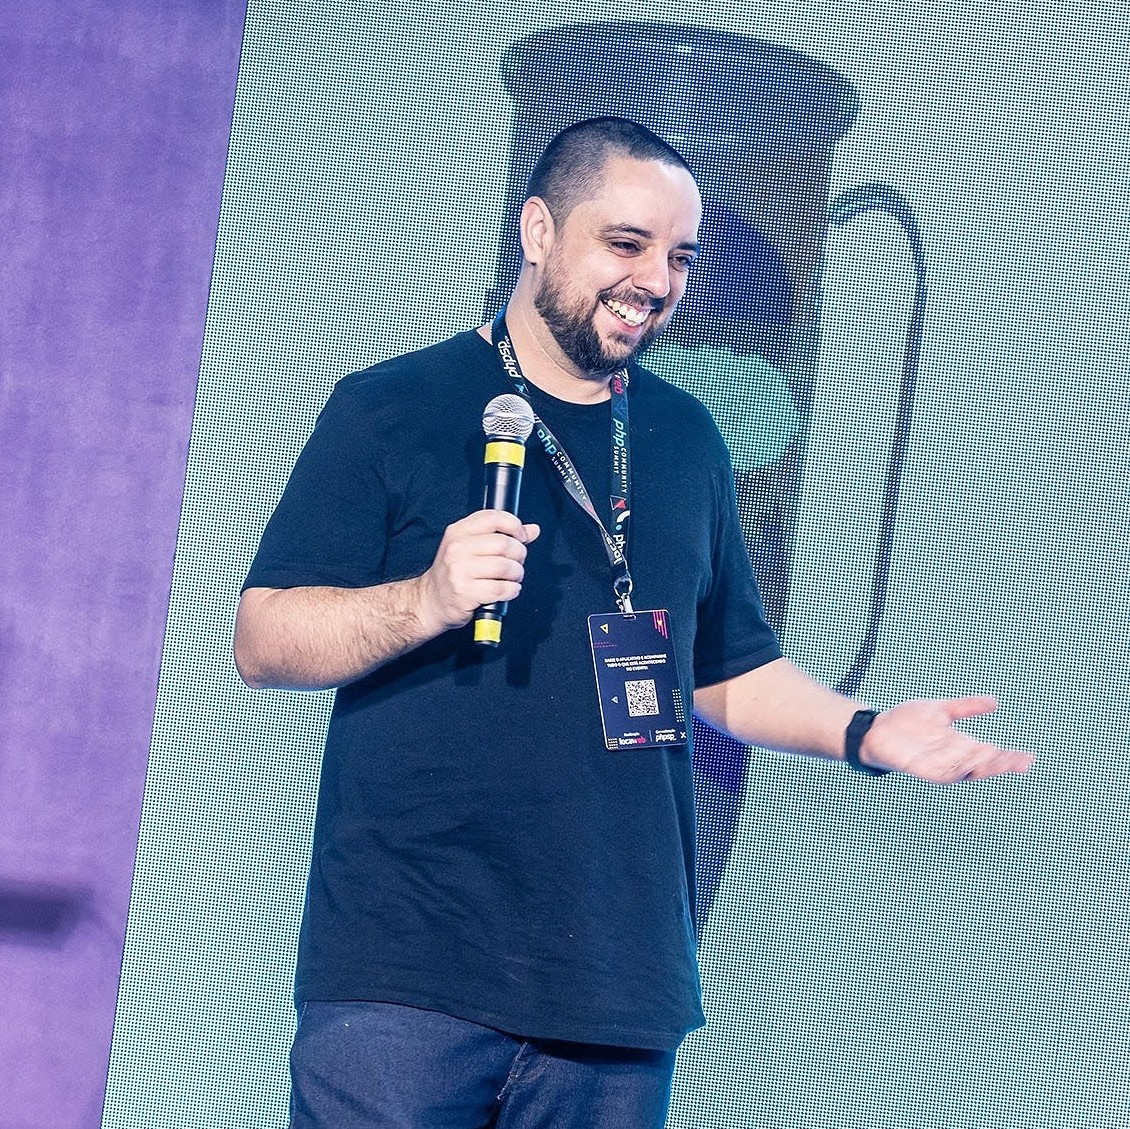
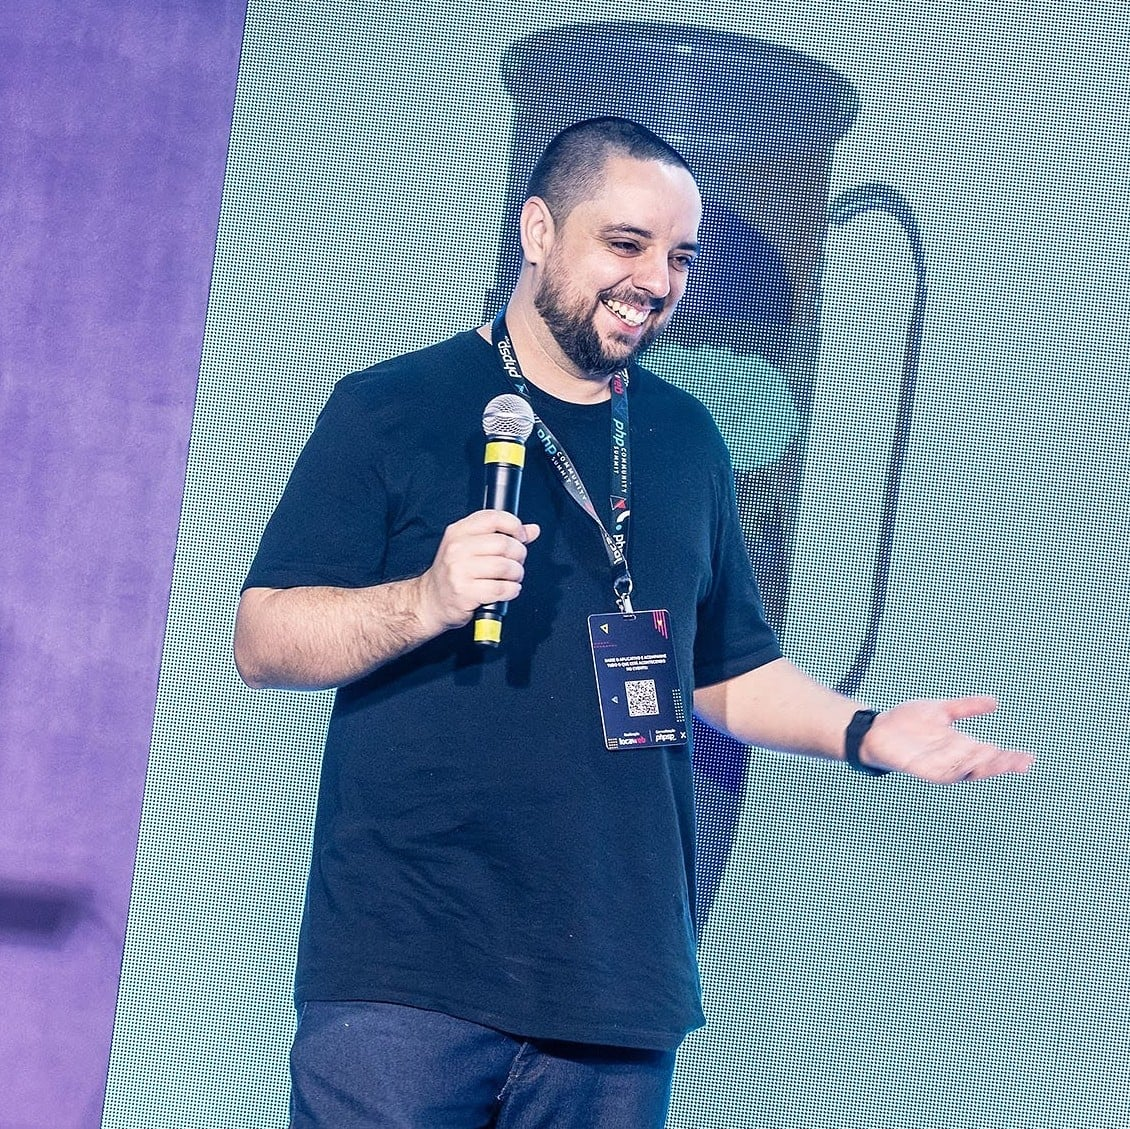
release 0.4.0
feat: add image optimization script and update makefile
feat: add optimized images for various posts and assets

diff --git a/_posts/2024-12-23-do-caos-a-clareza-explorando-a-modelagem-de-software.md b/_posts/2024-12-23-do-caos-a-clareza-explorando-a-modelagem-de-software.md
@@ -7,7 +7,7 @@ categories:
   - arquitetura
 tags:
   - arquitetura
-image: /assets/images/posts/do-caos-a-clareza-explorando-a-modelagem-de-software/caos.jpeg
+image: /assets/images/posts/do-caos-a-clareza-explorando-a-modelagem-de-software/caos.jpg
 description: "Softwares confusos, difíceis de entender e mal documentados geram estresse e frustração, especialmente em equipes que enfrentam dificuldades na integração de novos membros. Este artigo explora como a modelagem de software pode transformar esse cenário, trazendo clareza, organização e eficiência aos projetos."
 ---
 
@@ -56,7 +56,7 @@ referências, têm seus casos de uso e propósitos. No entanto, a ideia aqui é 
 simples que nos ajude a nos organizar e melhorar nosso fluxo de desenvolvimento, conectando pontos e caixas em diagramas
 de referência de nossos fluxos.
 
-![Exemplos de diagramas BPMN](/assets/images/posts/do-caos-a-clareza-explorando-a-modelagem-de-software/exemplos-de-diagramas-bpmn.png)
+![Exemplos de diagramas BPMN](/assets/images/posts/do-caos-a-clareza-explorando-a-modelagem-de-software/exemplos-de-diagramas-bpmn.jpg)
 
 ## Mas, por que desenhar?
 
@@ -75,7 +75,7 @@ precisamos falar com três ou quatro pessoas. A informação está toda distribu
 Todo mundo sabe que fulano é quem entende disso ou beltrano é quem sabe daquilo. Esses problemas sempre me soam como um
 **_Software Orientado a Fofoca_**.
 
-![Do Caos à Clareza : Slide 14](/assets/images/posts/do-caos-a-clareza-explorando-a-modelagem-de-software/software-orientado-a-fofoca.png)
+![Do Caos à Clareza : Slide 14](/assets/images/posts/do-caos-a-clareza-explorando-a-modelagem-de-software/software-orientado-a-fofoca.jpg)
 
 Esse tipo de sistema é um clássico, infelizmente. Geralmente, ele pode ser identificado por alguns pontos. Temos aquele
 sênior de 10 anos de empresa, que é considerado sênior não necessariamente por suas habilidades, mas porque está há 10
@@ -110,7 +110,7 @@ O processo de modelagem tem três etapas primordiais: início, processamento e f
 aqui, é importante termos uma linguagem comum para facilitar nosso entendimento. Nestas três etapas, podemos representar
 o início como uma bolinha branca, o quadrado para uma ação e o círculo preto para finalizar.
 
-![Do Caos à Clareza : Slide 18](/assets/images/posts/do-caos-a-clareza-explorando-a-modelagem-de-software/diagrama-1.png)
+![Do Caos à Clareza : Slide 18](/assets/images/posts/do-caos-a-clareza-explorando-a-modelagem-de-software/diagrama-1.jpg)
 
 Seja qual for, um worker que irá ler uma mensagem e processá-la, ou um cron job que realizará uma rotina e disparará
 alguns eventos, todo e qualquer fluxo sempre terá um início, um processamento e um fim. Isso pode começar com uma
@@ -128,7 +128,7 @@ Parece simples, certo? Mas, sem um desenho claro, essa tarefa pode se tornar um 
 
 Primeiro, vamos visualizar o fluxo básico da notificação de usuário.
 
-![Do Caos à Clareza : Slide 19](/assets/images/posts/do-caos-a-clareza-explorando-a-modelagem-de-software/diagrama-2.png)
+![Do Caos à Clareza : Slide 19](/assets/images/posts/do-caos-a-clareza-explorando-a-modelagem-de-software/diagrama-2.jpg)
 
 Primeiro, lemos as mensagens de uma fila chamada "user_notify". Depois, verificamos se há mensagens nessa fila. Se não
 houver mensagens, o fluxo termina. Caso haja mensagens, iteramos sobre cada uma delas e enviamos um e-mail para o
@@ -145,7 +145,7 @@ problema pode ser complicado. No entanto, com o diagrama em mãos, podemos rapid
 localizar onde o erro está ocorrendo. Por exemplo, se a exceção está sendo lançada porque o corpo da mensagem está
 vazio, podemos ver que faltou uma etapa de validação antes do envio do e-mail.
 
-![Do Caos à Clareza : Slide 20](/assets/images/posts/do-caos-a-clareza-explorando-a-modelagem-de-software/diagrama-3.png)
+![Do Caos à Clareza : Slide 20](/assets/images/posts/do-caos-a-clareza-explorando-a-modelagem-de-software/diagrama-3.jpg)
 
 Esses problemas podem ser identificados e resolvidos durante as sessões de entendimento e desenho. Muitas vezes, após
 horas de discussão, alguém olha para o fluxo e percebe um gap, algo que pode evitar um bug em produção.
@@ -161,7 +161,7 @@ sistema funciona e contribuir efetivamente.
 Mesmo que o fluxo ganhe novas formas de envio, como Telegram, ou novas tratativas de erros, podemos voltar ao desenho e
 discutir a melhor forma de implementar essas mudanças.
 
-![Do Caos à Clareza : Slide 22](/assets/images/posts/do-caos-a-clareza-explorando-a-modelagem-de-software/diagrama-4.png)
+![Do Caos à Clareza : Slide 22](/assets/images/posts/do-caos-a-clareza-explorando-a-modelagem-de-software/diagrama-4.jpg)
 
 ### Nem Só de Software Vive o Desenho
 
@@ -169,7 +169,7 @@ Quando comecei a escrever a palestra que apresentei, tinha tantas coisas que que
 roteiro coeso. Foi aí que usei o [miro.com](http://miro.com/) para criar um mapa mental dos assuntos. Fui organizando as
 ideias até encontrar uma ordem que fizesse sentido e que transmitisse o que eu queria dizer.
 
-![Mapa mental feito via miro.com](/assets/images/posts/do-caos-a-clareza-explorando-a-modelagem-de-software/miro.png)
+![Mapa mental feito via miro.com](/assets/images/posts/do-caos-a-clareza-explorando-a-modelagem-de-software/miro.jpg)
 
 Mas essa técnica vai além do software. Minha esposa, que é psicóloga, usa diagramas de emoções com seus pacientes.
 Enquanto conversava com eles, ela desenhava as relações entre as pessoas e os sentimentos que surgiam. Esses diagramas

diff --git a/_posts/2025-06-24-comunidade.md b/_posts/2025-06-24-comunidade.md
@@ -8,7 +8,7 @@ categories:
 tags:
   - carreira
   - comunidade
-image: /assets/images/posts/comunidade/phpvelhooeste-2025.png
+image: /assets/images/posts/comunidade/phpvelhooeste-2025.jpg
 description: "A comunidade PHP foi o divisor de águas na minha carreira. Mais do que absorver conteúdo técnico, foi na troca genuína de experiências, no networking sincero e no sentimento de pertencimento que encontrei o combustível para crescer de verdade. A comunidade é muito mais que um espaço de conhecimento — é onde se constrói carreira, se formam referências e se criam conexões que impulsionam o profissional e o ser humano."
 ---
 
@@ -55,7 +55,7 @@ PHP assíncrono", "Marcel", "Caruso", "Batista" — nomes e talks que explodiram
 cinco, seis vezes, mastigando cada conceito. Foi uma avalanche de aprendizado. Aquilo ali me mostrou que a área era
 muito maior do que eu imaginava, que existia vida além do meu terminal.
 
-![Meu histórico do YouTube, 2020](/assets/images/posts/comunidade/historico-youtube-2020.png?class=w-80 w-md-80 w-xxl-60)
+![Meu histórico do YouTube, 2020](/assets/images/posts/comunidade/historico-youtube-2020.jpg?class=w-80 w-md-80 w-xxl-60)
 
 E ali, no meio de uma pandemia, eu fiz uma promessa: no primeiro evento presencial que acontecesse depois de tudo isso,
 eu iria. Não importava onde. E cumpri. Em 2022, quando anunciaram o PHPeste — Em Natal — eu não pensei duas vezes. Moro
@@ -81,7 +81,7 @@ Desci do carro, vi o pessoal ali na frente, cumprimentei, me apresentei, e pront
 sumiu. A gente foi almoçar junto, depois teve o evento, e o resto é história. Conexão real. Vínculo. Gente boa, com a
 mesma vibe, falando sobre tecnologia com brilho nos olhos.
 
-![Credencial PHPest, 2022](/assets/images/posts/comunidade/credencial-phpest-2022.png?class=w-80 w-md-80 w-xxl-60)
+![Credencial PHPest, 2022](/assets/images/posts/comunidade/credencial-phpest-2022.jpg?class=w-80 w-md-80 w-xxl-60)
 
 ### A troca
 
@@ -94,7 +94,7 @@ pessoas evoluírem.
 
 Ali caiu a ficha: é nesse tipo de evento que a mágica acontece.
 
-![Happy hour pós evento no PHPest, 2022](/assets/images/posts/comunidade/hh-phpest-2022.png?class=w-80 w-md-80 w-xxl-60)
+![Happy hour pós evento no PHPest, 2022](/assets/images/posts/comunidade/hh-phpest-2022.jpg?class=w-80 w-md-80 w-xxl-60)
 
 ### Uma conversa que mudou tudo
 
@@ -148,4 +148,4 @@ compartilha desafios e cresce junto.
 Afinal, carreira não é só sobre o que você sabe, mas também sobre quem está junto com você nessa caminhada. E é nesse
 espaço coletivo que o seu próximo passo pode acontecer.
 
-![PHP Velho Oeste, 2025](/assets/images/posts/comunidade/phpvelhooeste-2025.png)
+![PHP Velho Oeste, 2025](/assets/images/posts/comunidade/phpvelhooeste-2025.jpg)

diff --git a/_posts/2025-10-03-eu-e-o-tdc.md b/_posts/2025-10-03-eu-e-o-tdc.md
@@ -6,7 +6,7 @@ permalink: /artigos/:categories/eu-e-o-tdc/
 categories:
   - pessoal
 tags: [ evento, tdc, comunidade, network ]
-image: /assets/images/posts/eu-e-o-tdc/tdc.png
+image: /assets/images/posts/eu-e-o-tdc/tdc.jpg
 description: "Acabei de voltar da minha primeira vez no TDC em São Paulo e ainda estou processando a experiência. Para quem não conhece, é um dos maiores eventos de tecnologia do Brasil, milhares de pessoas, dezenas de trilhas simultâneas, palestrantes de todo o país. O que eu não esperava era sair de lá com tantas histórias para contar: desde o sorteio improvável que me levou ao evento (meu nome saiu duas vezes seguidas num algoritmo em PHP), passando pela fila de mais de uma hora no primeiro dia, até os encontros inesperados nos corredores do Pro Magno. Neste relato, compartilho como foi mergulhar nesse universo pela primeira vez, as surpresas pelo caminho e as lições que trouxe na bagagem."
 ---
 
@@ -35,7 +35,7 @@ Ganhei em agosto para um evento em setembro. Viajei de Porto Alegre numa terça 
 Consegui um hotel a uns oito minutos do Pro Magno e, sendo São Paulo uma cidade onde tudo demora uma hora por causa do
 trânsito, achei que seria moleza chegar cedo. Doce ilusão.
 
-![Credenciamento TDC SP 2025](/assets/images/posts/eu-e-o-tdc/cracha-tdc-2025.png?class=w-80&w-md-80&w-xxl-60)
+![Credenciamento TDC SP 2025](/assets/images/posts/eu-e-o-tdc/cracha-tdc-2025.jpg?class=w-80&w-md-80&w-xxl-60)
 
 ## A Primeira Impressão
 
@@ -69,7 +69,7 @@ tocando, hamburguerias dos food trucks. Foi quando o networking realmente aconte
 empresa que ainda não conhecia, troquei ideia com gente de outras áreas. É nessas horas informais que às vezes acontecem
 as conexões mais interessantes.
 
-![TDC SP 2025](/assets/images/posts/eu-e-o-tdc/tdc-2025.png?class=w-80&w-md-80&w-xxl-60)
+![TDC SP 2025](/assets/images/posts/eu-e-o-tdc/tdc-2025.jpg?class=w-80&w-md-80&w-xxl-60)
 
 ## O Que Fica da Experiência
 

diff --git a/_posts/2025-07-21-da-pra-fazer-um-bomberman-em-php.md b/_posts/2025-07-21-da-pra-fazer-um-bomberman-em-php.md
@@ -27,7 +27,7 @@ Sou apaixonado por videogame desde pequeno. Meu primeiro foi um Dynavision. Depo
 2… e continuo vendo jogos como uma das formas mais interessantes de entretenimento e imersão. Sempre curti jogar, sempre
 investi nisso. Mas nunca levei essa paixão pro meu lado profissional, sempre esteve ali, como válvula de escape.
 
-![Foto aleatória dos meus controles — 2017](/assets/images/posts/da-pra-fazer-um-bomberman-em-php/controles.png?class=w-80 w-md-80 w-xxl-60)
+![Foto aleatória dos meus controles — 2017](/assets/images/posts/da-pra-fazer-um-bomberman-em-php/controles.jpg?class=w-80 w-md-80 w-xxl-60)
 
 Só que, nos últimos tempos, bateu a vontade de unir as coisas. Não pra virar dev de games, mas pra usar os games como
 desculpa pra estudar conceitos técnicos de forma mais divertida. Criar algo pequeno, como hobby, mas que me desafiasse
@@ -65,7 +65,7 @@ estados de jogador, inimigos com movimentação semi-autônoma… Tudo isso enca
 >
 > Toda a dinâmica gira em torno dessa matriz, das interações entre os elementos e do tempo de cada ação.
 
-![(1995) Super Bomberman 3 - Super Nintendo](/assets/images/posts/da-pra-fazer-um-bomberman-em-php/bomberman-3.png?class=w-80 w-md-80 w-xxl-60)
+![(1995) Super Bomberman 3 - Super Nintendo](/assets/images/posts/da-pra-fazer-um-bomberman-em-php/bomberman-3.jpg?class=w-80 w-md-80 w-xxl-60)
 
 ### Um motor de jogo em PHP
 

diff --git a/_posts/2024-11-18-porque-um-blog.md b/_posts/2024-11-18-porque-um-blog.md
@@ -7,7 +7,7 @@ categories:
   - pessoal
 tags:
   - pessoal
-image: /assets/images/posts/notebook-cabos-e-cafe.jpeg
+image: /assets/images/posts/notebook-cabos-e-cafe.jpg
 description: "Depois de muito tempo planejando e repensando, finalmente decidi lançar meu próprio blog. Aqui, vou reunir meus artigos, experiências e pensamentos sobre tecnologia, todos em um espaço centralizado e pessoal. Embora já tenha conteúdo espalhado em outras plataformas, sempre senti a necessidade de ter um lugar que realmente fosse meu."
 ---
 
@@ -30,7 +30,7 @@ que eu imaginava. Como bom back-end, não foi fácil definir o layout e alinhar 
 ainda ser longa, eu sabia que precisava lançar o MVP do blog para poder começar a postar. Caso contrário, ficaria
 empacado por mais um bom tempo.
 
-![TODO do Blog](/assets/images/posts/blog-todo.png?class=w-80 w-md-60 w-xxl-40)
+![TODO do Blog](/assets/images/posts/blog-todo.jpg?class=w-80 w-md-60 w-xxl-40)
 
 Para você ter uma ideia, criei uns 10 ou 15 layouts diferentes. E sempre chegava aquele momento em que eu simplesmente
 não suportava mais olhar para eles. Começava do zero, mudava de ideia, ou, às vezes, só percebia que aquilo não estava

diff --git a/_posts/2025-05-31-nem-so-de-codigo-vive-o-dev.md b/_posts/2025-05-31-nem-so-de-codigo-vive-o-dev.md
@@ -10,7 +10,7 @@ tags:
   - desenvolvimento
   - engenharia de software
   - soft skills
-image: /assets/images/posts/nem-so-de-codigo-vive-o-dev/eliot-php.png
+image: /assets/images/posts/nem-so-de-codigo-vive-o-dev/eliot-php.jpg
 description: "O que realmente faz um dev crescer na carreira? Não, não é só saber codar bem. Neste artigo, conto como levei um choque de realidade ao descobrir que comunicação é tão essencial quanto técnica, e como isso mudou tudo no meu jeito de trabalhar. Se você acha que \"o código fala por si\", talvez esteja perdendo a parte mais importante do jogo."
 ---
 
@@ -139,7 +139,7 @@ ajustando.
 Eu sei bem como é. Já fui o dev que odiava reuniões, achava que slide não era trabalho, que alinhar era perda de tempo.
 Eu queria era codar. Pra mim, reunião era só um atraso na sprint.
 
-![@geekcom2 via Twiter](/assets/images/posts/nem-so-de-codigo-vive-o-dev/x-geekcom2.png)
+![@geekcom2 via Twiter](/assets/images/posts/nem-so-de-codigo-vive-o-dev/x-geekcom2.jpg)
 
 Mas aí caiu a ficha: **o código é a menor parte do trabalho.** O impacto real tá em como a gente conecta ideias,
 transmite soluções e colabora com os outros.

diff --git a/_posts/2024-11-28-mais-qualidade-no-codigo-legado-a-regra-do-bom-escoteiro.md b/_posts/2024-11-28-mais-qualidade-no-codigo-legado-a-regra-do-bom-escoteiro.md
@@ -7,7 +7,7 @@ categories:
   - boas-praticas
 tags:
   - boas-praticas
-image: /assets/images/posts/escoteiros-card.png
+image: /assets/images/posts/escoteiros-card.jpg
 description: "Manter a qualidade do código em nossos projetos é um desafio constante. À medida que o tempo passa, nosso código pode se tornar um verdadeiro emaranhado de funcionalidades antigas e mal organizadas, criando o que chamamos de 'dívida técnica', um débito que, em algum momento, terá que ser pago."
 ---
 
@@ -60,7 +60,7 @@ se fosse um escoteiro, pois bons escoteiros sempre deixam o lugar mais limpo do 
 gravada na minha mente, e no mesmo dia fui buscar entender melhor o que isso significava. É essa definição que quero
 compartilhar aqui.
 
-![](/assets/images/posts/escoteiros.png?class=w-80 w-md-80 w-xxl-60)
+![](/assets/images/posts/escoteiros.jpg?class=w-80 w-md-80 w-xxl-60)
 
 ### Uma abordagem simples, mas poderosa
 

diff --git a/_posts/2025-02-10-times-de-alta-performance.md b/_posts/2025-02-10-times-de-alta-performance.md
@@ -12,7 +12,7 @@ tags:
   - melhoria contínua
   - processos
   - colaboração
-image: /assets/images/posts/times-de-alta-performance.jpeg
+image: /assets/images/posts/times-de-alta-performance.jpg
 description: "Construir um time de alta performance vai muito além de adotar metodologias ou seguir processos predefinidos. Trata-se de criar uma cultura onde a melhoria contínua não seja apenas um conceito abstrato, mas uma prática diária. No PicPay, fazer parte do time de Integridade Transacional me mostrou na prática como essa mentalidade transforma não apenas a eficiência das entregas, mas também o engajamento e a motivação da equipe. Neste artigo, compartilho aprendizados sobre como revisar processos, fomentar autonomia e tornar o trabalho mais colaborativo, evitando que a rotina se torne apenas um ciclo mecânico de tarefas."
 ---
 

diff --git a/_posts/2025-08-06-todas-as-novidades-do-php85.md b/_posts/2025-08-06-todas-as-novidades-do-php85.md
@@ -6,7 +6,7 @@ permalink: /artigos/:categories/todas-as-novidades-do-php85
 categories:
   - php
 tags: [ php8.5, array_first, array_last, curl_multi, get_error_handler, novidades, stack-traces, php, desenvolvimento, programação ]
-image: /assets/images/posts/php85.png
+image: /assets/images/posts/php85.jpg
 description: "PHP 8.5 chega em novembro com funcionalidades que você vai usar todos os dias: array_first(), array_last(), pipe operator, debugging aprimorado e muito mais. Descubra o que muda e por que atualizar seus projetos agora vai te poupar dor de cabeça depois."
 ---
 

diff --git a/TODO.md b/TODO.md
@@ -30,3 +30,4 @@
     [ ] Adição de um sistema de newsletter
     [ ] Adição de um sistema de curtidas
     [ ] Adição de um sistema de compartilhamento
+    [X] Adição de um otimizador de imagens
